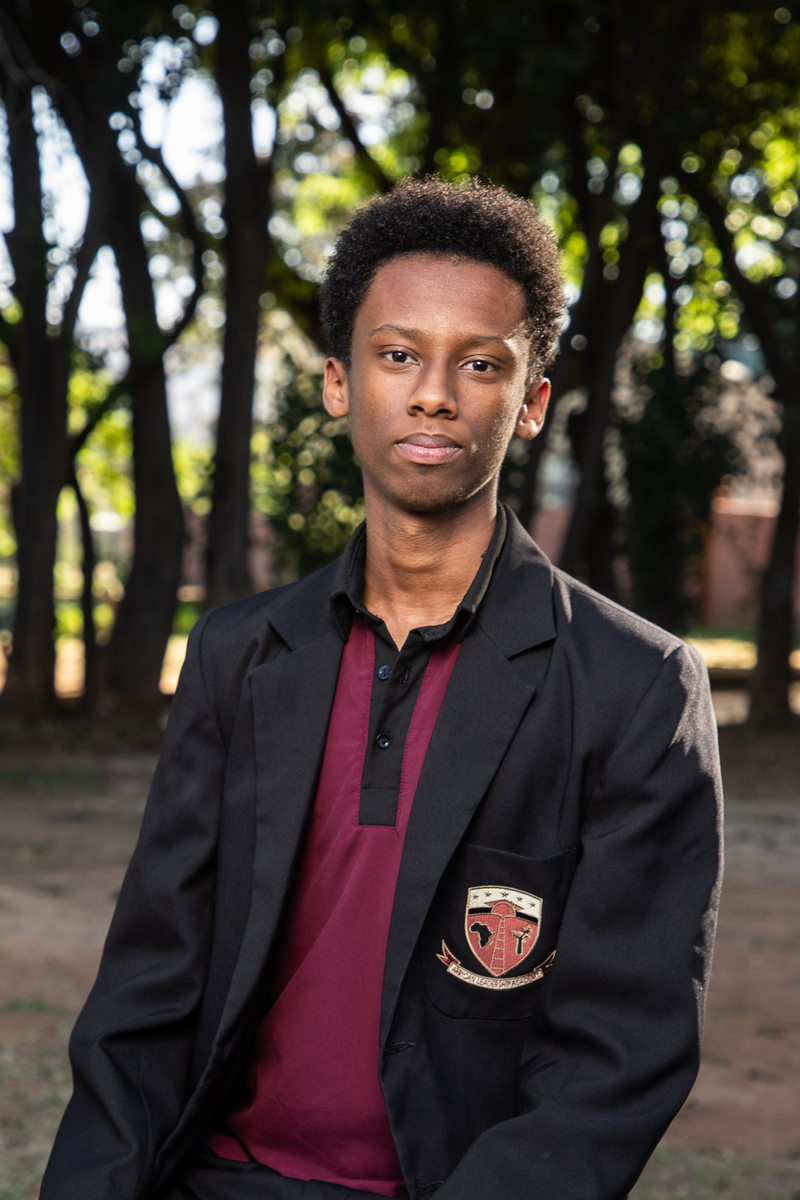
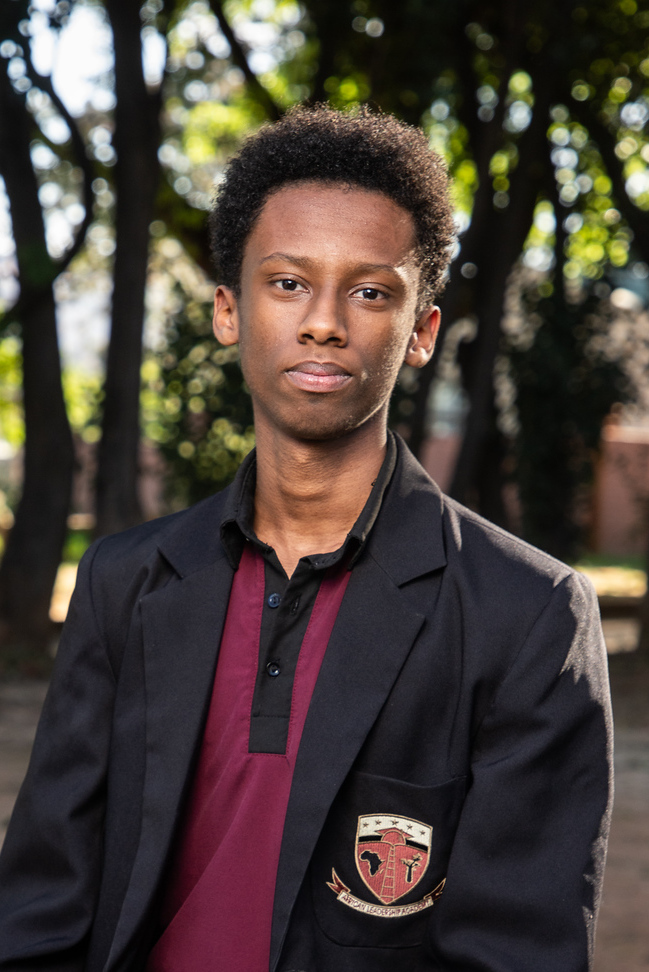
updated yab #2

diff --git a/index.html b/index.html
@@ -1475,7 +1475,7 @@ Kiswahili and Yoruba.</p>
 
       <div class="team-card">
         <div class="team-img-wrap"><img src="imgs/yab.jpg" alt="Yabets Abebe" loading="lazy"></div>
-        <div class="team-card-body"><h2>Leopoldo Mosibe Tobe</h2><p class="role">Chief of Operations</p><p class="country">Ethiopia</p></div>
+        <div class="team-card-body"><h2>yabets Abebe</h2><p class="role">Chief Operations Officer</p><p class="country">Ethiopia</p></div>
       </div>
       
       <div class="team-card">
